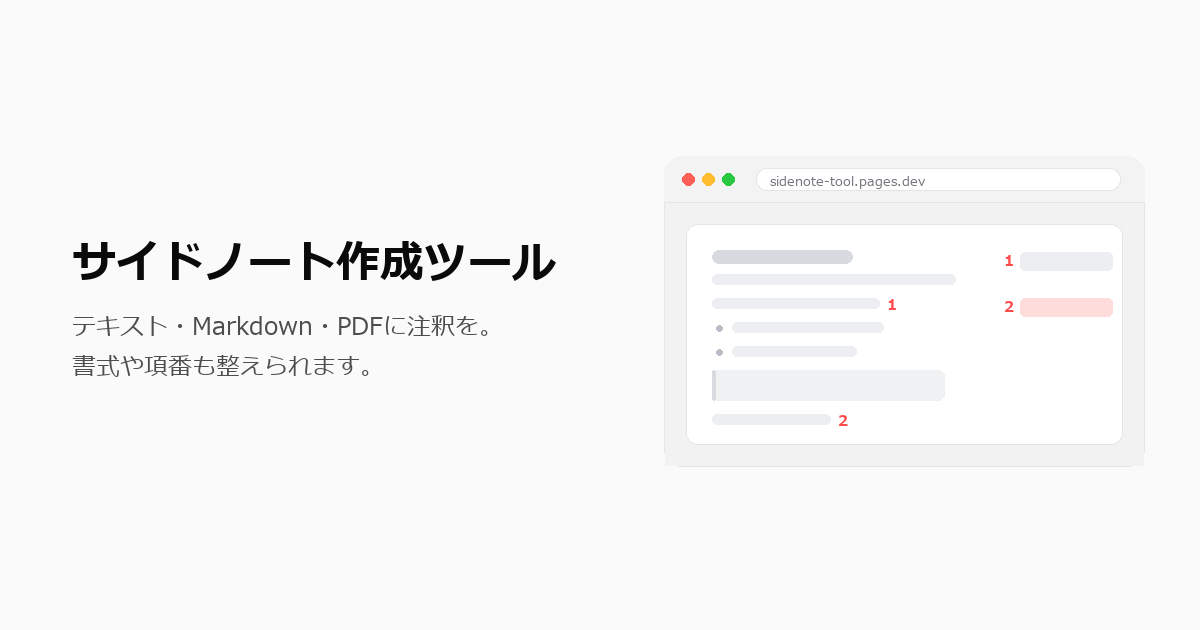
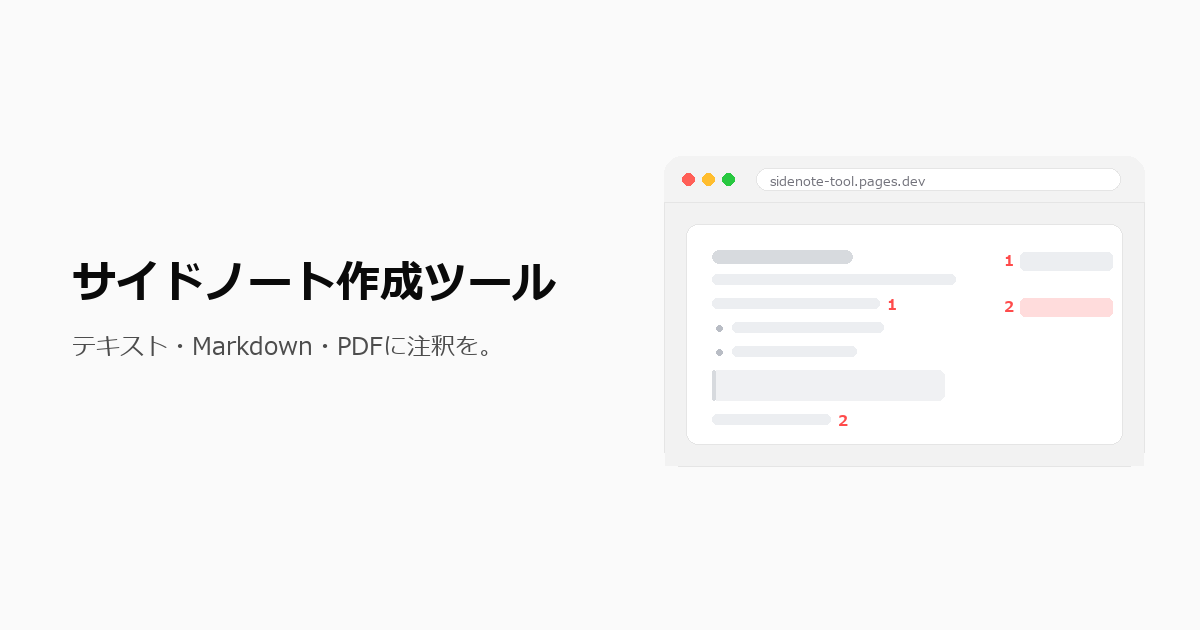
OGPカードから「書式や項番も整えられます。」を削除

Changed region(s): [[0.0617, 0.3619, 0.4625, 0.6032]]

diff --git a/public/index.html b/public/index.html
@@ -10,7 +10,7 @@
 <meta property="og:type" content="website">
 <meta property="og:url" content="https://sidenote-tool.pages.dev/">
 <meta property="og:title" content="サイドノート作成ツール">
-<meta property="og:description" content="テキスト・Markdown・PDFに右側のサイドノートで注釈を付け、書式や項番も整えられるツール">
+<meta property="og:description" content="テキスト・Markdown・PDFに右側のサイドノートで注釈を付けられるツール">
 <!-- og:imageは正方形を1枚目に置く。多くのクローラー(Teams等)は複数og:imageのうち
      1枚目を機械的に使い、小さいサムネイル枠では中央を正方形にトリミングする。1枚目が
      横長(1200x630)だと左右の端が切れてタイトル文字が欠ける実害を確認したため、
@@ -26,7 +26,7 @@
 <meta property="og:image:type" content="image/png">
 <meta name="twitter:card" content="summary_large_image">
 <meta name="twitter:title" content="サイドノート作成ツール">
-<meta name="twitter:description" content="テキスト・Markdown・PDFに右側のサイドノートで注釈を付け、書式や項番も整えられるツール">
+<meta name="twitter:description" content="テキスト・Markdown・PDFに右側のサイドノートで注釈を付けられるツール">
 <meta name="twitter:image" content="https://sidenote-tool.pages.dev/og-image-large.png">
 <!-- 7種類のデザイン（テーマ）の見出し・本文フォントに使うWebフォント。同梱（fonts/、THIRD_PARTY_NOTICES.md参照）。印刷（PDF化）にもそのまま使うため、ここで先読みしておく。 -->
 <link rel="stylesheet" href="fonts/fonts.css?v=1">

diff --git a/scripts/make_og_image.py b/scripts/make_og_image.py
@@ -18,7 +18,7 @@ OUT_DIR = Path(__file__).resolve().parent.parent / "public"
 
 # ---- このアプリ固有の設定（2026-09、sidenote-pdf・sidenote-pdf-docを統合。他はsidenote-pdf-web） ----
 TITLE = "サイドノート作成ツール"
-DESC_LINES = ['テキスト・Markdown・PDFに注釈を。', '書式や項番も整えられます。']
+DESC_LINES = ['テキスト・Markdown・PDFに注釈を。']
 SQUARE_LINES = ['サイドノート', '作成ツール']
 MOCK = "md"            # plain / indent / md / web
 URL = "sidenote-tool.pages.dev"
